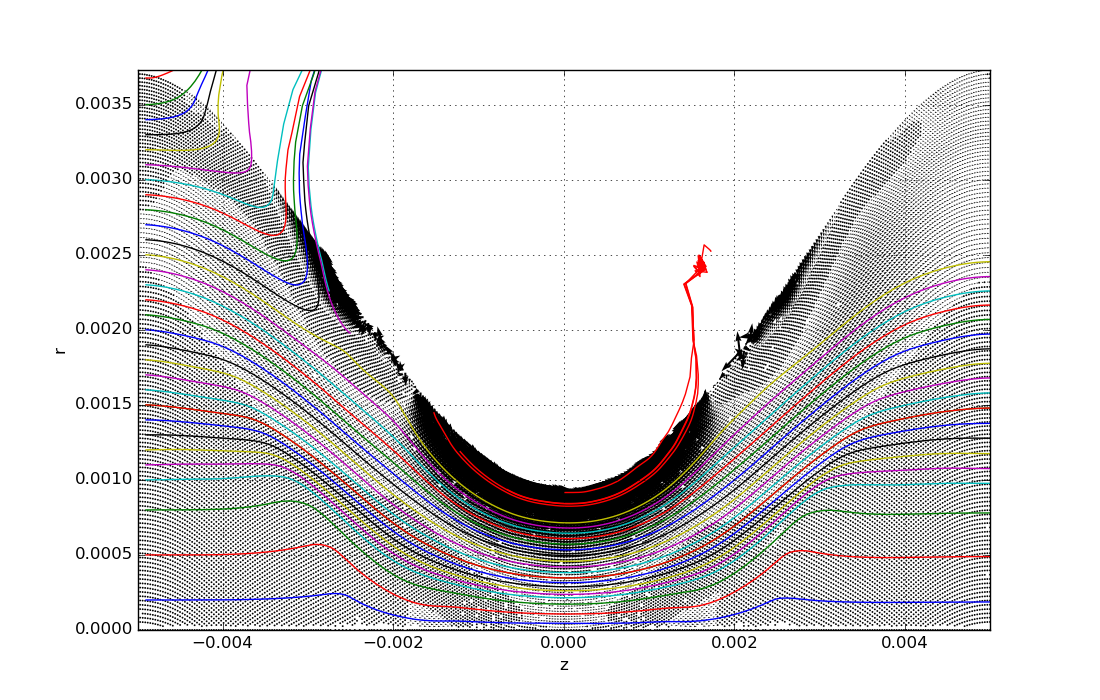
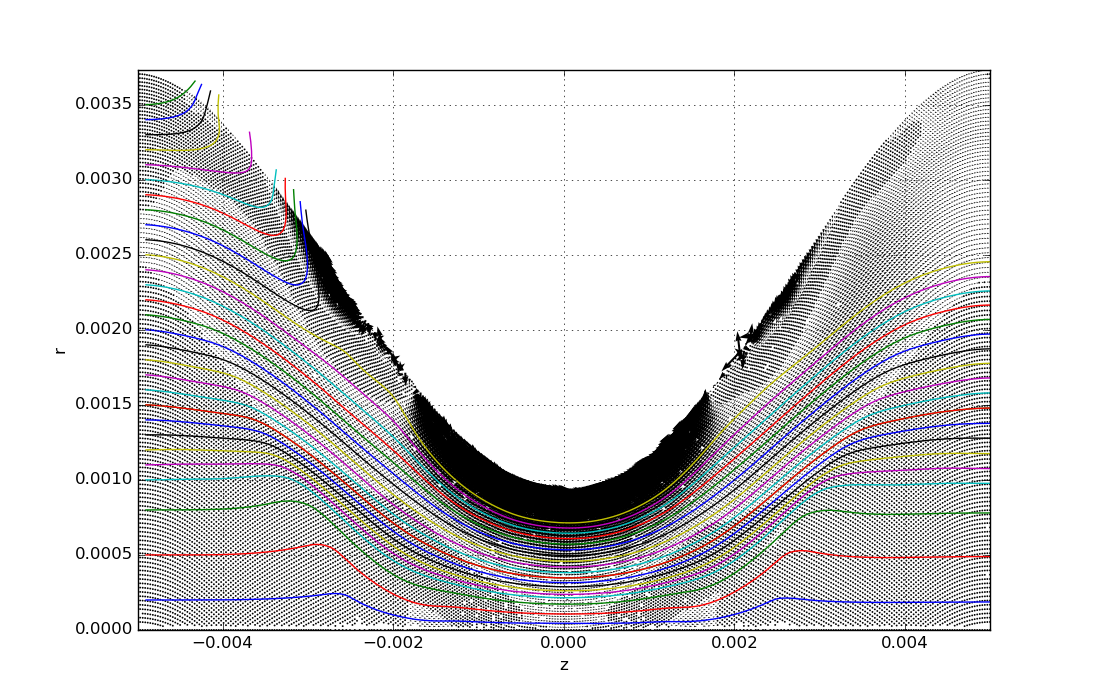
Cutoffs and I think I changed something else but hell if I know what

diff --git a/vis3.py b/vis3.py
@@ -1,35 +1,44 @@
 import numpy as np
 import matplotlib.pyplot as plt
 from scipy import interpolate
-#####brzeg
-B11LINE = np.loadtxt("B11LINE.dat")
-Xbrzeg = B11LINE[:,0]
-Ybrzeg = B11LINE[:,1]
-VXbrzeg = B11LINE[:,2]
-VYbrzeg = -B11LINE[:,3]
-Vbrzeg=np.sqrt(VXbrzeg**2+VYbrzeg**2)
-VXbrzeg/=Vbrzeg
-VYbrzeg/=Vbrzeg
-
-indices = np.argsort(Xbrzeg)
-Xbrzeg=Xbrzeg[indices]
-Ybrzeg=Ybrzeg[indices]
-VXbrzeg=VXbrzeg[indices]
-VYbrzeg=VYbrzeg[indices]
-
-plt.grid()
-plt.xlabel("z")
-plt.ylabel("r")
-plt.plot(Xbrzeg, Ybrzeg, "g-")
-plt.quiver(Xbrzeg, Ybrzeg, VXbrzeg, VYbrzeg,
-           alpha=1, angles='xy', scale_units='xy', color="green")
-tck=interpolate.splrep(Xbrzeg,Ybrzeg,s=0)
-xspline=np.linspace(min(Xbrzeg),max(Xbrzeg),1000)
-spline=interpolate.splev(xspline,tck,der=0)
-plt.plot(xspline, spline, "b-", label="spline")
-
-plt.savefig("brzeg.png")
-plt.show()
+# #####brzeg
+# B11LINE = np.loadtxt("b11LINE_2.0.dat")
+# Xbrzeg = B11LINE[:,0]
+# Ybrzeg = B11LINE[:,1]
+# VXbrzeg = B11LINE[:,2]
+# VYbrzeg = B11LINE[:,3]
+# Vbrzeg=np.sqrt(VXbrzeg**2+VYbrzeg**2)
+# VXbrzeg/=Vbrzeg
+# VYbrzeg/=Vbrzeg
+#
+# indices = np.argsort(Xbrzeg)
+# Xbrzeg=Xbrzeg[indices]
+# Ybrzeg=Ybrzeg[indices]
+# VXbrzeg=VXbrzeg[indices]
+# VYbrzeg=VYbrzeg[indices]
+#
+# plt.grid()
+# plt.xlabel("z")
+# plt.ylabel("r")
+# plt.plot(Xbrzeg, Ybrzeg, "g--")
+# plt.quiver(Xbrzeg, Ybrzeg, VXbrzeg, VYbrzeg,
+#            alpha=1, angles='xy', scale_units='xy', color="green")
+# tck=interpolate.splrep(Xbrzeg,Ybrzeg,s=0)
+# xspline=np.linspace(min(Xbrzeg),max(Xbrzeg),1000)
+# spline=interpolate.splev(xspline,tck,der=0)
+#
+# spline_gradient=interpolate.splev(Xbrzeg,tck,der=1)
+# spline_normal_delta_x=1/np.sqrt(1+spline_gradient**2)
+# spline_normal_delta_y=spline_normal_delta_x*spline_gradient
+# #plt.plot(xspline, spline, "b-", label="spline")
+# plt.quiver(Xbrzeg,Ybrzeg, -spline_normal_delta_y, spline_normal_delta_x,
+#            alpha=1, angles='xy', scale_units='xy', color="blue")
+#
+# #TODO: take Xbrzeg, Ybrzeg points. Use spline interpolation to calculate
+# # derivative at these points,
+#
+# plt.savefig("brzeg.png")
+# plt.show()
 
 
 
@@ -62,11 +71,17 @@ def weight(x,y):
     return 1/r3
 
 def field(r, step_length):
+    cutoff=False
     radius=3*step_length
     #TODO: time this part
     x_distances=X-r[0]
     y_distances=Y-r[1]
-    indices_in_radius = x_distances**2+y_distances**2<radius**2
+    distances_squared = x_distances**2+y_distances**2
+
+    if np.min(distances_squared)>0.00005**2:
+        cutoff=True
+
+    indices_in_radius = distances_squared<radius**2
     number_points_inside_radius=np.count_nonzero(indices_in_radius)
     #print(r, number_points_inside_radius, radius)
     if(number_points_inside_radius<15):
@@ -90,27 +105,27 @@ def field(r, step_length):
     #print(r, number_points_inside_radius, radius)
 
 
-    return v_vector, step_length
+    return v_vector, step_length, cutoff
 
 acceptable_error = 0.0000001 #relative to step length
 alpha_coefficient = 0.5 #
 
 def step(r,step_length):
-    v, step_length = field(r, step_length)
+    v, step_length, cutoff = field(r, step_length)
 
     rk1 = r + v*step_length
-    vk1,dummy = field(rk1, step_length)
+    vk1,dummy, dummy2 = field(rk1, step_length)
     rk = r+(v+vk1)/2 * step_length #the first approximation
 
     rk1half = r + v*step_length/2
-    vk1half,dummy = field(rk1half, step_length)
+    vk1half,dummy, dummy2 = field(rk1half, step_length)
     rkhalf = r+(v+vk1half)/2 * step_length/2
 
-    vkhalf,dummy = field(rkhalf, step_length)
+    vkhalf,dummy, dummy2 = field(rkhalf, step_length)
     rkstar1 = rkhalf + vkhalf * step_length/2
-    vkstar1,dummy = field(rkstar1, step_length)
+    vkstar1,dummy, dummy2 = field(rkstar1, step_length)
     rkstar = rkhalf + (vkhalf+vkstar1)/2 * step_length/2 #the second approximation
-    vkstar,dummy = field(rkstar, step_length)
+    vkstar,dummy, dummy2 = field(rkstar, step_length)
 
     relative_difference=np.linalg.norm(rk-rkstar)/step_length
     if(relative_difference>acceptable_error):
@@ -118,7 +133,7 @@ def step(r,step_length):
     elif(relative_difference<alpha_coefficient*acceptable_error):
         step_length*=2
 
-    return rkstar, vkstar, step_length
+    return rkstar, vkstar, step_length, cutoff
 
 def line(starting_r):
     checking_if_closed = False
@@ -126,9 +141,9 @@ def line(starting_r):
     out_of_bounds = False
     r=starting_r
     step_length = 0.000001
-
+    cutoff=False
     r_array=np.copy(starting_r)
-    v_array,step_length=field(starting_r, step_length)
+    v_array,step_length, cutoff=field(starting_r, step_length)
     iterations=0
     while not closed and not out_of_bounds:
 
@@ -140,9 +155,13 @@ def line(starting_r):
         if (r[0]>xmax or r[0] < xmin or r[1]>ymax or r[1]<ymin):
             out_of_bounds = True
         iterations+=1
-        r,v, step_length=step(r, step_length)
+        r,v, step_length, cutoff=step(r, step_length)
         r_array=np.vstack((r_array,r))
         v_array=np.vstack((v_array,v))
+
+        if cutoff:
+            print("CRITICAL FAILURE - cutoff")
+            break
 
         if(iterations>10000):
             print("Does not converge from r = " + str(starting_r))
@@ -201,5 +220,5 @@ for r in rki:
 plt.xlim(xmin,xmax)
 plt.ylim(ymin,ymax)
 plt.grid()
-plt.savefig("output_local.png")
+plt.savefig("output.png")
 plt.show()
